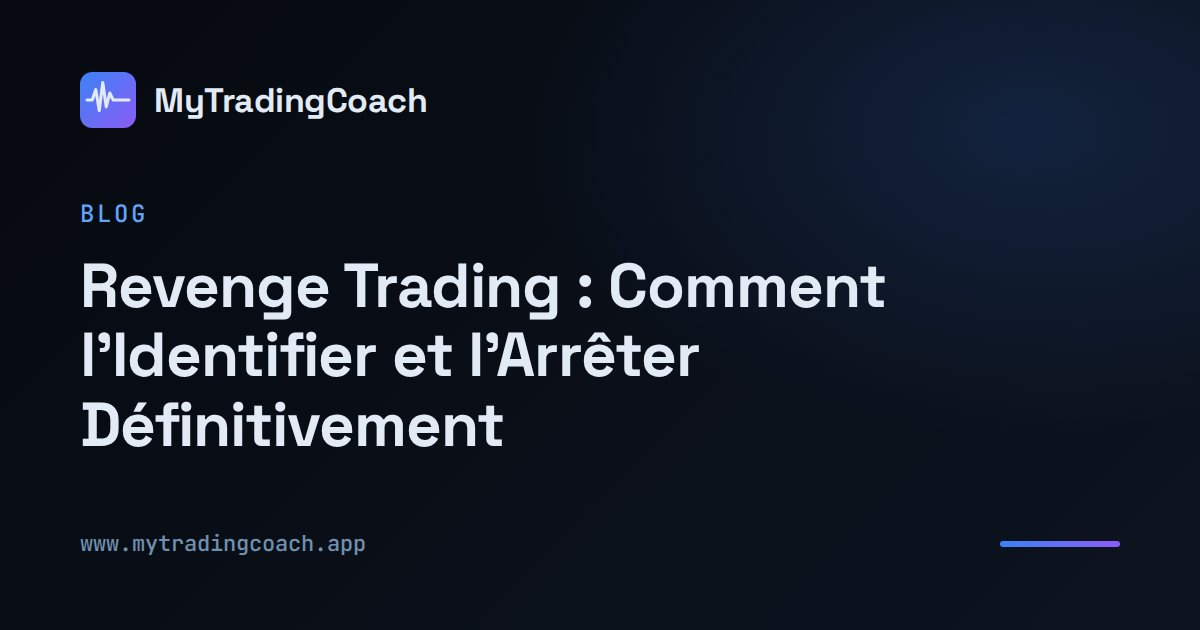
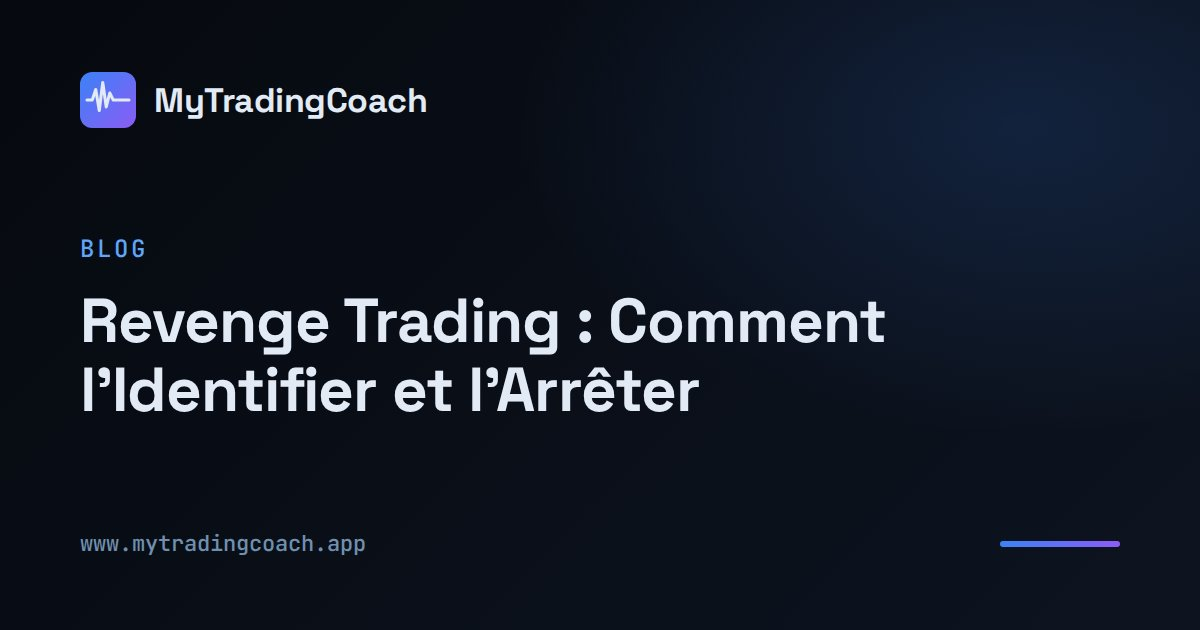
fix(seo): corrections du relecteur sur la phase 2
- titre de l'article revenge sans promesse de resultat, image de partage regeneree
- article prop firm : seo title et tags sans firme hors catalogue
- note du prompt : mise a jour par merge de dev, jamais de rebase

Partie de #1071, suite dans #1077

Changed region(s): [[0.0617, 0.3016, 0.74, 0.7238]]

diff --git a/apps/landing-mytradingcoach/src/content/blog/meilleur-journal-trading-prop-firm.md b/apps/landing-mytradingcoach/src/content/blog/meilleur-journal-trading-prop-firm.md
@@ -1,10 +1,10 @@
 ---
 title: "Choisir un journal de trading quand on est en prop firm"
-seoTitle: "Meilleur journal de trading pour prop firm (FTMO, Apex, Topstep)"
+seoTitle: "Meilleur journal de trading prop firm : les critères pour choisir"
 description: "Les critères qui comptent pour un journal de trading en prop firm : multi-comptes, règles de drawdown, import broker. Ce qu'un journal généraliste rate."
 publishDate: 2026-07-16
 updatedDate: 2026-11-16
-tags: ["prop firm", "journal de trading", "ftmo", "apex"]
+tags: ["prop firm", "journal de trading", "apex", "topstep"]
 faq:
   - question: "Qu'est-ce qui distingue un journal de trading pour prop firm ?"
     answer: "Il sépare les comptes (évaluation, funded, perso) et te situe par rapport aux règles de ta firme : drawdown, perte journalière, objectif. Un journal généraliste ne montre que ton P&L."

diff --git a/.claude/prompts/PROMPT-seo-visibilite-ia.md b/.claude/prompts/PROMPT-seo-visibilite-ia.md
@@ -89,4 +89,4 @@ Verdict du relecteur, fichiers, mesures avant/après, pages ou données exclues 
 
 - 2026-11-16, après le rapport de la phase 0 : « GO phase 1, option a, sameAs vide pour l'instant »
 
-- 2026-11-16, après la PR #1076 (phase 1, CI verte) : « continue », pris comme « GO phase 2 ». Branche feat/seo-articles-maj partie de feat/seo-technique (FAQ et JSON-LD des articles reposent sur la phase 1), à rebaser sur dev après le merge de #1076.
+- 2026-11-16, après la PR #1076 (phase 1, CI verte) : « continue », pris comme « GO phase 2 ». Branche feat/seo-articles-maj partie de feat/seo-technique (FAQ et JSON-LD des articles reposent sur la phase 1), à mettre à jour par merge de origin/dev si besoin (pas de rebase d'une branche poussée).

diff --git a/apps/landing-mytradingcoach/src/content/blog/revenge-trading.md b/apps/landing-mytradingcoach/src/content/blog/revenge-trading.md
@@ -1,5 +1,5 @@
 ---
-title: "Revenge Trading : Comment l'Identifier et l'Arrêter Définitivement"
+title: "Revenge Trading : Comment l'Identifier et l'Arrêter"
 seoTitle: "Revenge trading : le comprendre et l'arrêter"
 description: "Le revenge trading détruit les comptes. Repère ce comportement et les règles concrètes pour en sortir."
 publishDate: 2026-04-10
